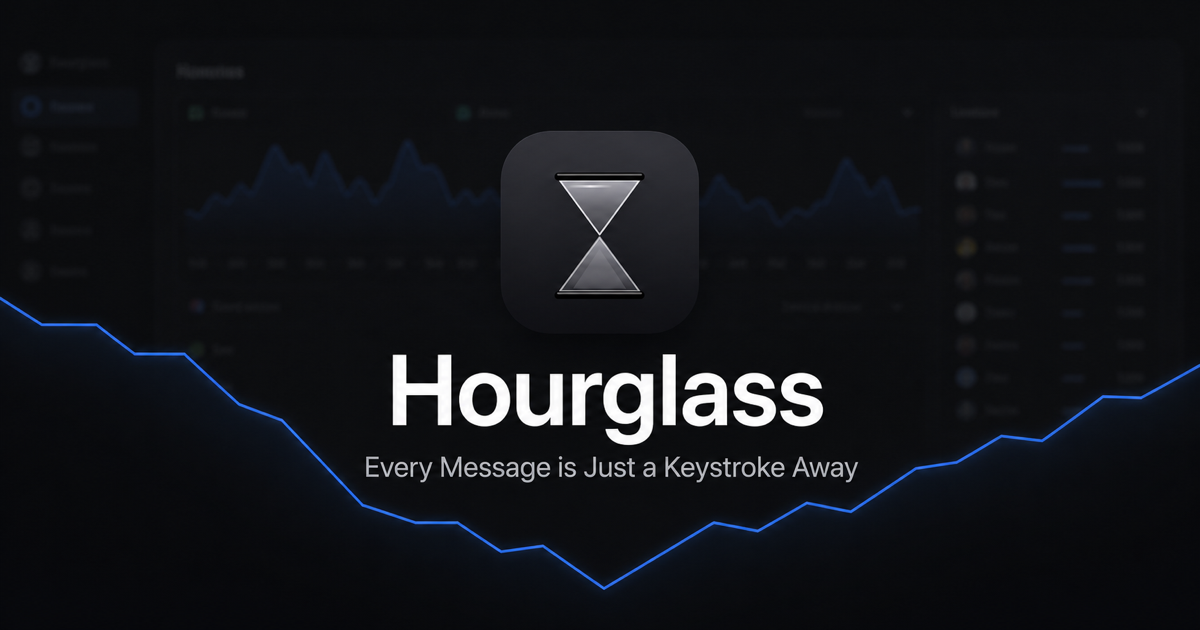
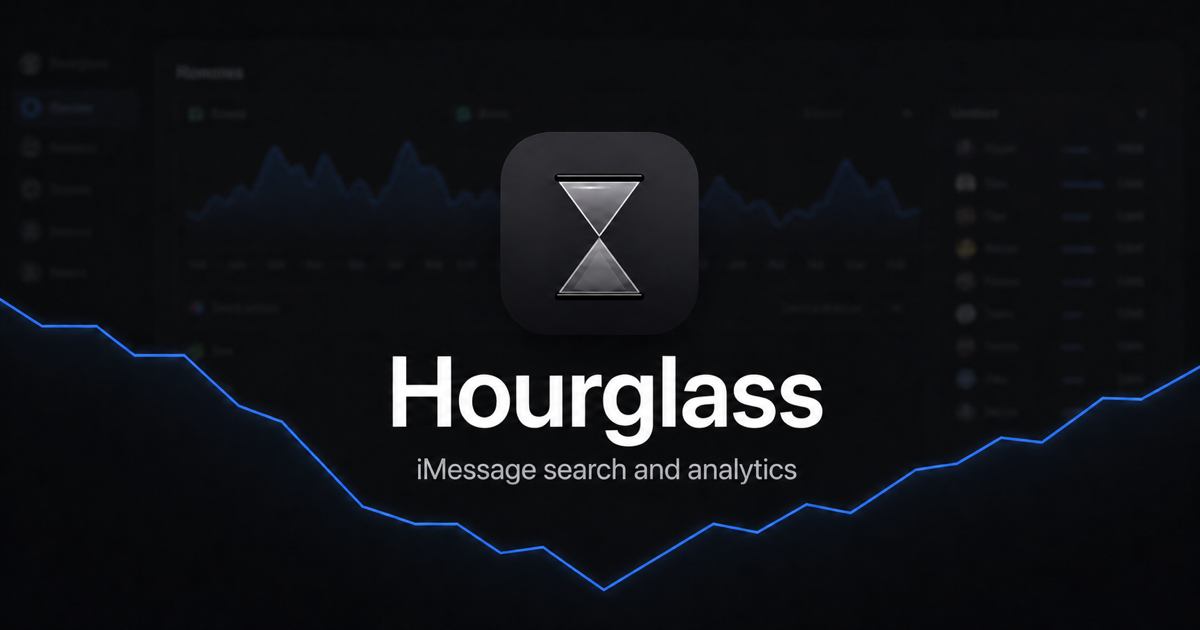
Update Hourglass tagline

diff --git a/docs/assets/main-DoDHuZ1b.js b/docs/assets/main-DoDHuZ1b.js
@@ -1,0 +1,1 @@
+import{n as e,r as t,t as n}from"./globals-Do4gf4FF.js";var r=e(),i=t(),a=n(),o=`https://hourglass-downloads.ammesatyajit.workers.dev/download/0.3.1/Hourglass.dmg`,s=[[0,72],[7,54],[13,58],[18,82],[25,65],[31,73],[38,49],[45,84],[52,60],[58,70],[65,88],[72,68],[79,77],[86,65],[92,79],[97,57],[100,92]],c=[[0,45],[8,53],[13,79],[18,35],[24,66],[31,28],[38,74],[44,20],[50,68],[57,39],[64,76],[71,24],[78,62],[85,48],[92,66],[97,42],[100,88]],l=[[0,24],[8,42],[15,31],[23,65],[31,40],[40,78],[50,20],[59,74],[67,38],[76,68],[84,34],[92,58],[100,28]];function u({points:e,className:t=``}){return(0,a.jsx)(`div`,{className:`segmented-line ${t}`,"aria-hidden":`true`,children:e.slice(0,-1).map(([t,n],r)=>{let[i,o]=e[r+1],s=i-t,c=(o-n)*.58,l=Math.sqrt(s*s+c*c),u=180/Math.PI*Math.atan2(c,s);return(0,a.jsx)(`i`,{style:{"--x":`${t}%`,"--y":`${n}%`,"--w":`${l}%`,"--r":`${u}deg`,"--line-delay":`${r*55}ms`}},`${t}-${n}`)})})}function d({small:e=!1}){return(0,a.jsxs)(`a`,{className:`brand`,href:`#top`,"aria-label":`Hourglass home`,children:[(0,a.jsx)(`img`,{src:`./hourglass-icon.png`,width:e?28:34,height:e?28:34,alt:``}),(0,a.jsx)(`span`,{children:`Hourglass`})]})}function f(){return(0,a.jsxs)(`header`,{className:`topbar`,children:[(0,a.jsx)(d,{}),(0,a.jsxs)(`nav`,{"aria-label":`Main navigation`,children:[(0,a.jsx)(`a`,{className:`nav-download`,href:o,rel:`noreferrer`,children:`Download`}),(0,a.jsx)(`a`,{href:`./privacy/`,children:`Privacy Policy`}),(0,a.jsx)(`a`,{href:`#about`,children:`About Me`})]})]})}function p(){return(0,a.jsxs)(`div`,{className:`dashboard-backdrop`,"aria-hidden":`true`,children:[(0,a.jsxs)(`aside`,{className:`dash-sidebar`,children:[(0,a.jsx)(`strong`,{children:`Hourglass`}),(0,a.jsxs)(`span`,{className:`active`,children:[(0,a.jsx)(`i`,{}),` Overview`]}),(0,a.jsxs)(`span`,{children:[(0,a.jsx)(`i`,{}),` Vernacular`]}),(0,a.jsxs)(`span`,{children:[(0,a.jsx)(`i`,{}),` Nostalgia`]})]}),(0,a.jsxs)(`div`,{className:`dash-main`,children:[(0,a.jsxs)(`div`,{className:`dash-title-row`,children:[(0,a.jsx)(`h3`,{children:`Overview`}),(0,a.jsx)(`span`,{children:`30d\xA0\xA0 12m\xA0\xA0 All`})]}),(0,a.jsxs)(`div`,{className:`dash-stats`,children:[(0,a.jsxs)(`span`,{children:[`TOTAL `,(0,a.jsx)(`strong`,{children:`602,304`})]}),(0,a.jsxs)(`span`,{children:[`SENT `,(0,a.jsx)(`strong`,{children:`199,636`})]}),(0,a.jsxs)(`span`,{children:[`RECEIVED `,(0,a.jsx)(`strong`,{children:`402,668`})]}),(0,a.jsxs)(`span`,{children:[`CHATS `,(0,a.jsx)(`strong`,{children:`1,339`})]})]}),(0,a.jsxs)(`div`,{className:`frequency-card`,children:[(0,a.jsxs)(`div`,{className:`frequency-label`,children:[(0,a.jsx)(`strong`,{children:`Texting frequency`}),(0,a.jsx)(`span`,{children:`Last 30 days · daily`})]}),(0,a.jsxs)(`div`,{className:`frequency-plot`,children:[(0,a.jsx)(`div`,{className:`chart-grid`}),(0,a.jsx)(u,{points:c,className:`received-line`}),(0,a.jsx)(u,{points:s,className:`sent-line`})]}),(0,a.jsxs)(`div`,{className:`brush-strip`,children:[(0,a.jsx)(u,{points:l,className:`brush-line`}),(0,a.jsx)(`i`,{})]})]}),(0,a.jsxs)(`div`,{className:`leaderboards`,children:[(0,a.jsxs)(`div`,{className:`leader-card`,children:[(0,a.jsx)(`strong`,{children:`People you text the most`}),[`Maya`,`Theo`,`Noor`].map((e,t)=>(0,a.jsxs)(`span`,{children:[(0,a.jsx)(`b`,{children:t+1}),(0,a.jsx)(`i`,{}),e,(0,a.jsx)(`em`,{style:{width:`${82-t*17}%`}})]},e))]}),(0,a.jsxs)(`div`,{className:`leader-card`,children:[(0,a.jsx)(`strong`,{children:`Group chats you text the most`}),[`Studio`,`Roommates`,`Family`].map((e,t)=>(0,a.jsxs)(`span`,{children:[(0,a.jsx)(`b`,{children:t+1}),(0,a.jsx)(`i`,{}),e,(0,a.jsx)(`em`,{style:{width:`${88-t*19}%`}})]},e))]})]})]})]})}function m(){return(0,a.jsxs)(`section`,{className:`hero`,id:`top`,children:[(0,a.jsx)(p,{}),(0,a.jsx)(`div`,{className:`hero-shade`}),(0,a.jsxs)(`div`,{className:`hero-copy`,children:[(0,a.jsx)(`img`,{className:`hero-icon`,src:`./hourglass-icon.png`,width:`92`,height:`92`,alt:`Hourglass app icon`}),(0,a.jsx)(`h1`,{children:`Hourglass`}),(0,a.jsx)(`p`,{children:`iMessage search and analytics`}),(0,a.jsxs)(`a`,{className:`primary-download`,href:o,rel:`noreferrer`,children:[`Download for macOS `,(0,a.jsx)(`span`,{children:`↗`})]})]}),(0,a.jsx)(`div`,{className:`hero-cut`,"aria-hidden":`true`}),(0,a.jsx)(u,{points:l,className:`hero-edge-line`})]})}var h={keyword:{query:`cactus from:Mom last:1y`,label:`Keyword Search`},needle:{query:`what did we decide about Vegas?`,label:`Cactus Needle 2`}};function g({ready:e}){return(0,a.jsx)(`div`,{className:`search-results ${e?`ready`:``}`,children:[[`M`,`Mom`,`The little cactus finally grew a new arm 🌵`,`Jun 18`],[`M`,`Mom`,`Can you bring the cactus in before it freezes?`,`Mar 02`],[`M`,`Mom`,`That cactus place you sent looks perfect.`,`Nov 14`]].map(([e,t,n,r])=>(0,a.jsxs)(`div`,{className:`message-result`,children:[(0,a.jsx)(`span`,{className:`result-avatar`,children:e}),(0,a.jsxs)(`div`,{children:[(0,a.jsx)(`strong`,{children:t}),(0,a.jsx)(`p`,{children:n}),(0,a.jsx)(`small`,{children:`● Mom`})]}),(0,a.jsx)(`time`,{children:r})]},`${n}-${r}`))})}function _({ready:e}){return(0,a.jsxs)(`div`,{className:`needle-result ${e?`ready`:``}`,children:[(0,a.jsxs)(`div`,{className:`needle-route`,children:[(0,a.jsx)(`span`,{children:`N2`}),(0,a.jsx)(`i`,{}),(0,a.jsx)(`span`,{children:`⌕`}),(0,a.jsx)(`p`,{children:`Searching plans, dates, and the right conversation`}),(0,a.jsx)(`b`,{children:`LOCAL`})]}),(0,a.jsxs)(`div`,{className:`needle-answer`,children:[(0,a.jsx)(`span`,{className:`needle-spark`,children:`✦`}),(0,a.jsxs)(`div`,{children:[(0,a.jsx)(`small`,{children:`Cactus Needle 2 found the thread`}),(0,a.jsx)(`p`,{children:`Four nights in October. Thursday flight, Arts District hotel, brunch Saturday.`}),(0,a.jsx)(`button`,{type:`button`,children:`3 supporting messages ↗`})]})]})]})}function v(){let[e,t]=(0,i.useState)(`keyword`),[n,r]=(0,i.useState)(``),[o,s]=(0,i.useState)(!1),[c,l]=(0,i.useState)(!1),u=(0,i.useRef)(null);(0,i.useEffect)(()=>{let n=h[e].query,i=window.matchMedia(`(prefers-reduced-motion: reduce)`).matches;if(r(i?n:``),s(i),l(!1),i)return;let a=0,o=window.setInterval(()=>{a+=1,r(n.slice(0,a)),a>=n.length&&window.clearInterval(o)},42),c=window.setTimeout(()=>s(!0),n.length*42+260),u=window.setTimeout(()=>t(e=>e===`keyword`?`needle`:`keyword`),e===`keyword`?7600:8400);return()=>{window.clearInterval(o),window.clearTimeout(c),window.clearTimeout(u)}},[e]);function d(e){e.key===`Tab`&&(e.preventDefault(),t(e=>e===`keyword`?`needle`:`keyword`)),e.metaKey&&(e.key===`?`||e.key===`/`)&&(e.preventDefault(),l(e=>!e))}return(0,a.jsxs)(`section`,{className:`search-section`,id:`search`,children:[(0,a.jsxs)(`div`,{className:`section-intro`,children:[(0,a.jsx)(`span`,{children:`01`}),(0,a.jsx)(`h2`,{children:e===`keyword`?`Keyword Search`:`Cactus Needle 2`}),(0,a.jsx)(`p`,{children:e===`keyword`?`Exact when you know the words.`:`Natural language when you only remember the idea.`})]}),(0,a.jsxs)(`div`,{className:`search-window ${e}`,ref:u,tabIndex:0,onKeyDown:d,"aria-label":`Interactive Hourglass search demonstration. Press Tab to change modes.`,children:[(0,a.jsxs)(`div`,{className:`mac-titlebar`,children:[(0,a.jsxs)(`div`,{children:[(0,a.jsx)(`i`,{}),(0,a.jsx)(`i`,{}),(0,a.jsx)(`i`,{})]}),(0,a.jsx)(`span`,{children:h[e].label}),(0,a.jsx)(`button`,{type:`button`,onClick:()=>l(e=>!e),"aria-pressed":c,children:`⌘?`})]}),(0,a.jsxs)(`div`,{className:`search-input`,children:[(0,a.jsx)(`span`,{"aria-hidden":`true`,children:e===`keyword`?`⌕`:`✦`}),(0,a.jsxs)(`strong`,{children:[n,(0,a.jsx)(`i`,{})]}),(0,a.jsx)(`kbd`,{children:`TAB`})]}),(0,a.jsxs)(`div`,{className:`mode-caption`,children:[(0,a.jsx)(`span`,{className:e===`keyword`?`active`:``,children:`Keyword`}),(0,a.jsx)(`button`,{type:`button`,onClick:()=>t(e=>e===`keyword`?`needle`:`keyword`),children:`Press Tab`}),(0,a.jsx)(`span`,{className:e===`needle`?`active`:``,children:`Needle 2`})]}),e===`keyword`?(0,a.jsx)(g,{ready:o}):(0,a.jsx)(_,{ready:o}),(0,a.jsxs)(`div`,{className:`syntax-sheet ${c?`open`:``}`,"aria-hidden":!c,children:[(0,a.jsxs)(`div`,{children:[(0,a.jsx)(`strong`,{children:`Search examples`}),(0,a.jsx)(`button`,{type:`button`,onClick:()=>l(!1),children:`×`})]}),(0,a.jsx)(`code`,{children:`with:Maya last:30d`}),(0,a.jsx)(`code`,{children:`type:image vacation`}),(0,a.jsx)(`code`,{children:`reactions:>=3`}),(0,a.jsx)(`code`,{children:`flight + confirmation`}),(0,a.jsx)(`small`,{children:`Tab switches to Cactus Needle 2`})]})]}),(0,a.jsxs)(`p`,{className:`search-hint`,children:[`Click the panel, then press `,(0,a.jsx)(`kbd`,{children:`Tab`}),` or `,(0,a.jsx)(`kbd`,{children:`⌘?`})]})]})}var y=[[`You`,50,54,`you`],[`Maya`,27,40,`blue`],[`Theo`,72,34,`orange`],[`Noor`,67,68,`purple`],[`Ben`,32,73,`blue`],[`Imani`,46,23,`orange`],[`Leah`,84,54,`muted`],[`Ari`,16,61,`muted`],[`Sam`,55,82,`purple`],[`Jules`,82,79,`muted`],[`Kai`,18,24,`muted`],[`Nia`,41,87,`muted`]],b=[[0,1,`blue`],[0,2,`orange`],[0,3,`purple`],[0,4,`blue`],[0,5,`orange`],[1,4,`blue`],[2,3,`orange`],[3,8,`purple`],[2,6,`muted`],[4,7,`muted`],[5,10,`muted`],[8,11,`muted`],[3,9,`muted`],[1,5,`muted`]];function x({from:e,to:t,tone:n}){let[,r,i]=y[e],[,o,s]=y[t],c=o-r,l=(s-i)*.66,u=Math.sqrt(c*c+l*l),d=180/Math.PI*Math.atan2(l,c);return(0,a.jsx)(`i`,{className:`graph-edge ${n}`,style:{"--x":`${r}%`,"--y":`${i}%`,"--w":`${u}%`,"--r":`${d}deg`}})}var S=[[`cone`,`spread to 4`,`169×`,`orange`],[`brother`,`came from 1 · spread to 1`,`292×`,`purple`],[`lowkey`,`came from 1`,`446×`,`blue`],[`wtv`,`spread to 4`,`177×`,`orange`]];function C(){let[e,t]=(0,i.useState)(0);(0,i.useEffect)(()=>{if(window.matchMedia(`(prefers-reduced-motion: reduce)`).matches)return;let e=window.setInterval(()=>t(e=>(e+1)%S.length),3200);return()=>window.clearInterval(e)},[]);let n=S[e][0];return(0,a.jsxs)(`section`,{className:`vernacular-section`,id:`vernacular`,children:[(0,a.jsxs)(`div`,{className:`section-intro vernacular-intro`,children:[(0,a.jsx)(`span`,{children:`02`}),(0,a.jsx)(`h2`,{children:`Vernacular`}),(0,a.jsx)(`p`,{children:`Your circles. Your shared language. What you picked up—and what you spread.`})]}),(0,a.jsxs)(`div`,{className:`vernacular-window`,children:[(0,a.jsxs)(`div`,{className:`vernacular-topbar`,children:[(0,a.jsxs)(`div`,{children:[(0,a.jsx)(`strong`,{children:`How words moved`}),(0,a.jsx)(`small`,{children:`Choose a word to trace it`})]}),(0,a.jsxs)(`nav`,{children:[(0,a.jsx)(`span`,{className:`active`,children:`Circles`}),(0,a.jsx)(`span`,{children:`Vocabulary`})]})]}),(0,a.jsxs)(`div`,{className:`vernacular-layout`,children:[(0,a.jsxs)(`aside`,{className:`word-rail`,children:[(0,a.jsxs)(`div`,{className:`rail-heading`,children:[(0,a.jsx)(`strong`,{children:`Words you traded`}),(0,a.jsx)(`small`,{children:`ranked by reach`})]}),S.map(([n,r,i,o],s)=>(0,a.jsxs)(`button`,{className:e===s?`selected`:``,type:`button`,onClick:()=>t(s),children:[(0,a.jsxs)(`span`,{children:[(0,a.jsx)(`strong`,{children:n}),(0,a.jsx)(`b`,{children:i})]}),(0,a.jsx)(`small`,{children:r}),(0,a.jsx)(`i`,{className:o})]},n))]}),(0,a.jsxs)(`div`,{className:`social-graph`,"aria-label":`Social graph showing how the word ${n} moved through several circles`,children:[(0,a.jsx)(`div`,{className:`circle-label studio`,children:`STUDIO`}),(0,a.jsx)(`div`,{className:`circle-label home`,children:`HOME`}),(0,a.jsx)(`div`,{className:`circle-label friends`,children:`FRIENDS`}),b.map(([e,t,n],r)=>(0,a.jsx)(x,{from:e,to:t,tone:n},`${e}-${t}-${r}`)),y.map(([e,t,n,r],i)=>(0,a.jsxs)(`button`,{type:`button`,className:`person-node ${r} ${i===0?`center`:``}`,style:{left:`${t}%`,top:`${n}%`,"--node-delay":`${i*70}ms`},children:[(0,a.jsx)(`i`,{children:e===`You`?`SK`:e.slice(0,1)}),(0,a.jsx)(`span`,{children:e})]},e)),(0,a.jsxs)(`div`,{className:`trace-label`,children:[(0,a.jsx)(`strong`,{children:n}),(0,a.jsx)(`span`,{children:`moving through 3 circles`})]})]}),(0,a.jsxs)(`aside`,{className:`shared-rail`,children:[(0,a.jsxs)(`div`,{className:`person-card`,children:[(0,a.jsx)(`span`,{children:`MC`}),(0,a.jsxs)(`div`,{children:[(0,a.jsx)(`strong`,{children:`Maya`}),(0,a.jsx)(`small`,{children:`6 words used by both`})]})]}),(0,a.jsxs)(`div`,{className:`shared-group from-them`,children:[(0,a.jsx)(`small`,{children:`↓ PICKED UP`}),(0,a.jsx)(`strong`,{children:`lowkey`}),(0,a.jsx)(`i`,{style:{width:`88%`}}),(0,a.jsx)(`strong`,{children:`brother`}),(0,a.jsx)(`i`,{style:{width:`62%`}})]}),(0,a.jsxs)(`div`,{className:`shared-group from-you`,children:[(0,a.jsx)(`small`,{children:`↑ SPREAD`}),(0,a.jsx)(`strong`,{children:`cone`}),(0,a.jsx)(`i`,{style:{width:`78%`}}),(0,a.jsx)(`strong`,{children:`wtv`}),(0,a.jsx)(`i`,{style:{width:`54%`}})]}),(0,a.jsxs)(`div`,{className:`shared-group together`,children:[(0,a.jsx)(`small`,{children:`● SHARED`}),(0,a.jsx)(`strong`,{children:`idk`}),(0,a.jsx)(`i`,{style:{width:`92%`}}),(0,a.jsx)(`strong`,{children:`bro`}),(0,a.jsx)(`i`,{style:{width:`67%`}})]})]})]})]})]})}function w(){return(0,a.jsxs)(`section`,{className:`about-section`,id:`about`,children:[(0,a.jsx)(`div`,{className:`about-mark`,children:`SK`}),(0,a.jsxs)(`div`,{children:[(0,a.jsx)(`span`,{children:`ABOUT ME`}),(0,a.jsx)(`h2`,{children:`Satyajit Kumar`}),(0,a.jsx)(`p`,{children:`I built Hourglass because the conversations I cared about were impossible to find again.`}),(0,a.jsx)(`a`,{href:`https://github.com/ammesatyajit`,rel:`noreferrer`,children:`GitHub ↗`})]})]})}function T(){return(0,a.jsxs)(`footer`,{children:[(0,a.jsx)(d,{small:!0}),(0,a.jsxs)(`p`,{children:[`Nothing leaves your computer. `,(0,a.jsx)(`a`,{href:`./privacy/`,children:`See the privacy policy.`})]}),(0,a.jsx)(`span`,{children:`© 2026 Satyajit Kumar`})]})}function E(){return(0,a.jsxs)(`main`,{children:[(0,a.jsx)(f,{}),(0,a.jsx)(m,{}),(0,a.jsx)(v,{}),(0,a.jsx)(C,{}),(0,a.jsx)(w,{}),(0,a.jsx)(T,{})]})}(0,r.createRoot)(document.getElementById(`root`)).render((0,a.jsx)(i.StrictMode,{children:(0,a.jsx)(E,{})}));

diff --git a/docs/index.html b/docs/index.html
@@ -6,17 +6,17 @@
     <meta name="theme-color" content="#08090b" />
     <meta name="description" content="Search every iMessage. Explore the language your circles share. Everything stays on your Mac." />
     <meta property="og:title" content="Hourglass" />
-    <meta property="og:description" content="Every Message is Just a Keystroke Away" />
+    <meta property="og:description" content="iMessage search and analytics" />
     <meta property="og:type" content="website" />
     <meta property="og:url" content="https://ammesatyajit.github.io/hourglass/" />
     <meta property="og:image" content="https://ammesatyajit.github.io/hourglass/og-dark.png" />
     <meta name="twitter:card" content="summary_large_image" />
     <meta name="twitter:title" content="Hourglass" />
-    <meta name="twitter:description" content="Every Message is Just a Keystroke Away" />
+    <meta name="twitter:description" content="iMessage search and analytics" />
     <meta name="twitter:image" content="https://ammesatyajit.github.io/hourglass/og-dark.png" />
     <link rel="icon" href="/hourglass/hourglass-icon.png" />
-    <title>Hourglass — Every Message is Just a Keystroke Away</title>
-    <script type="module" crossorigin src="/hourglass/assets/main-CmSirVo2.js"></script>
+    <title>Hourglass — iMessage search and analytics</title>
+    <script type="module" crossorigin src="/hourglass/assets/main-DoDHuZ1b.js"></script>
     <link rel="modulepreload" crossorigin href="/hourglass/assets/globals-Do4gf4FF.js">
     <link rel="stylesheet" crossorigin href="/hourglass/assets/globals-DHjTnqPz.css">
   </head>
